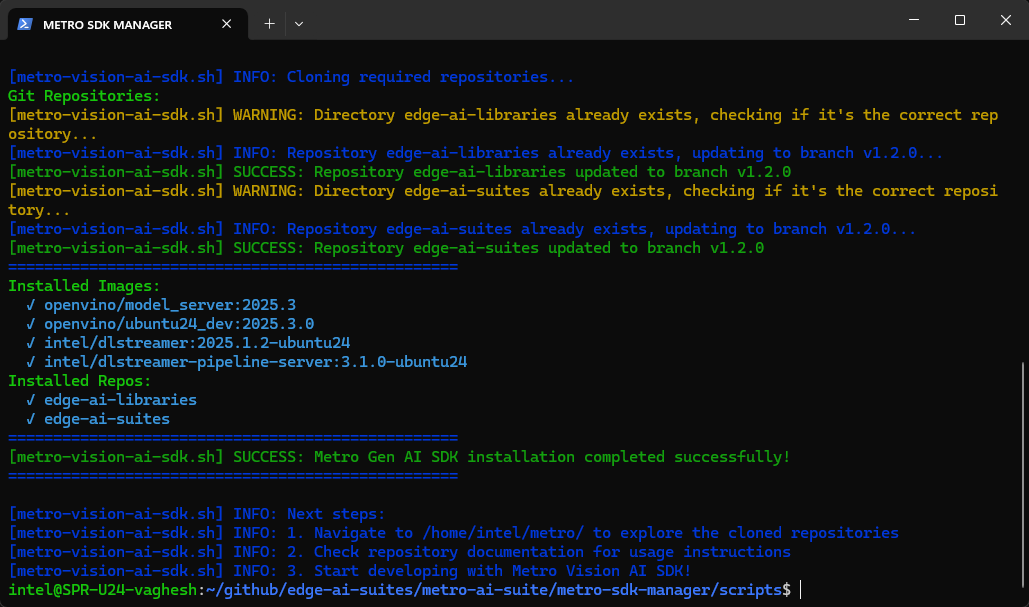
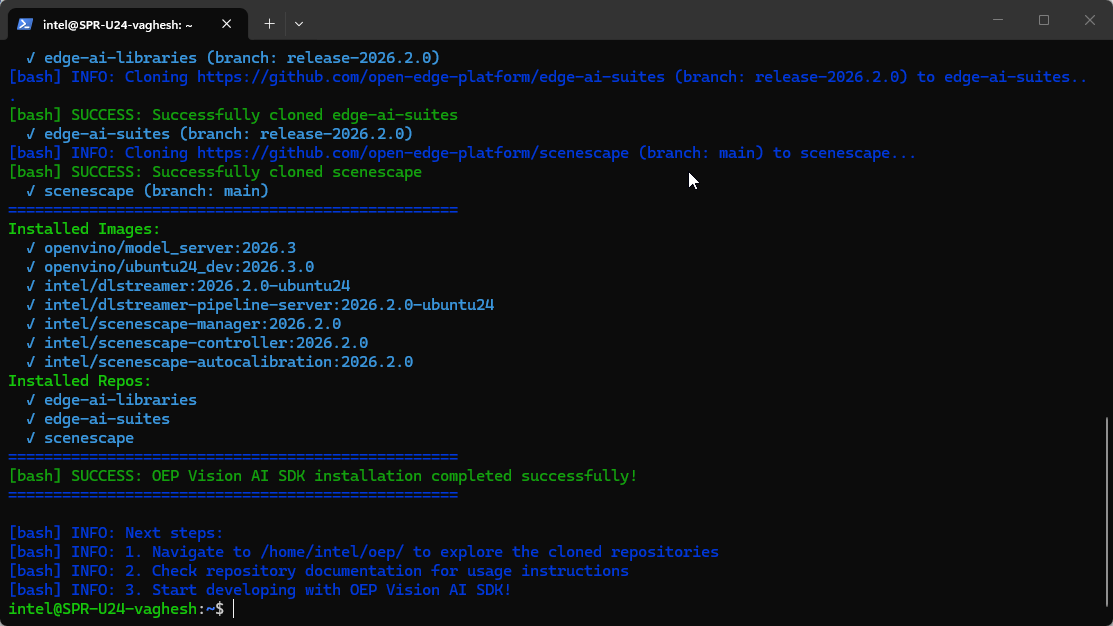
Updated screenshots for installation

diff --git a/metro-ai-suite/metro-sdk-manager/docs/user-guide/visual-ai-demo-kit/get-started.md b/metro-ai-suite/metro-sdk-manager/docs/user-guide/visual-ai-demo-kit/get-started.md
@@ -28,7 +28,7 @@ Verify that your development environment meets the following specifications:
 Execute the automated installation script to configure the complete development environment:
 
 ```bash
-curl https://raw.githubusercontent.com/open-edge-platform/edge-ai-suites/refs/heads/release-2026.2.0/metro-ai-suite/metro-sdk-manager/scripts/oep-vision-ai-sdk.sh | bash
+curl -fsS https://raw.githubusercontent.com/open-edge-platform/edge-ai-suites/refs/heads/release-2026.2.0/metro-ai-suite/metro-sdk-manager/scripts/visual-ai-demo-kit.sh | bash
 ```
 
 ![Visual AI Demo Kit Installation](images/visual-ai-demo-kit-install.png)
